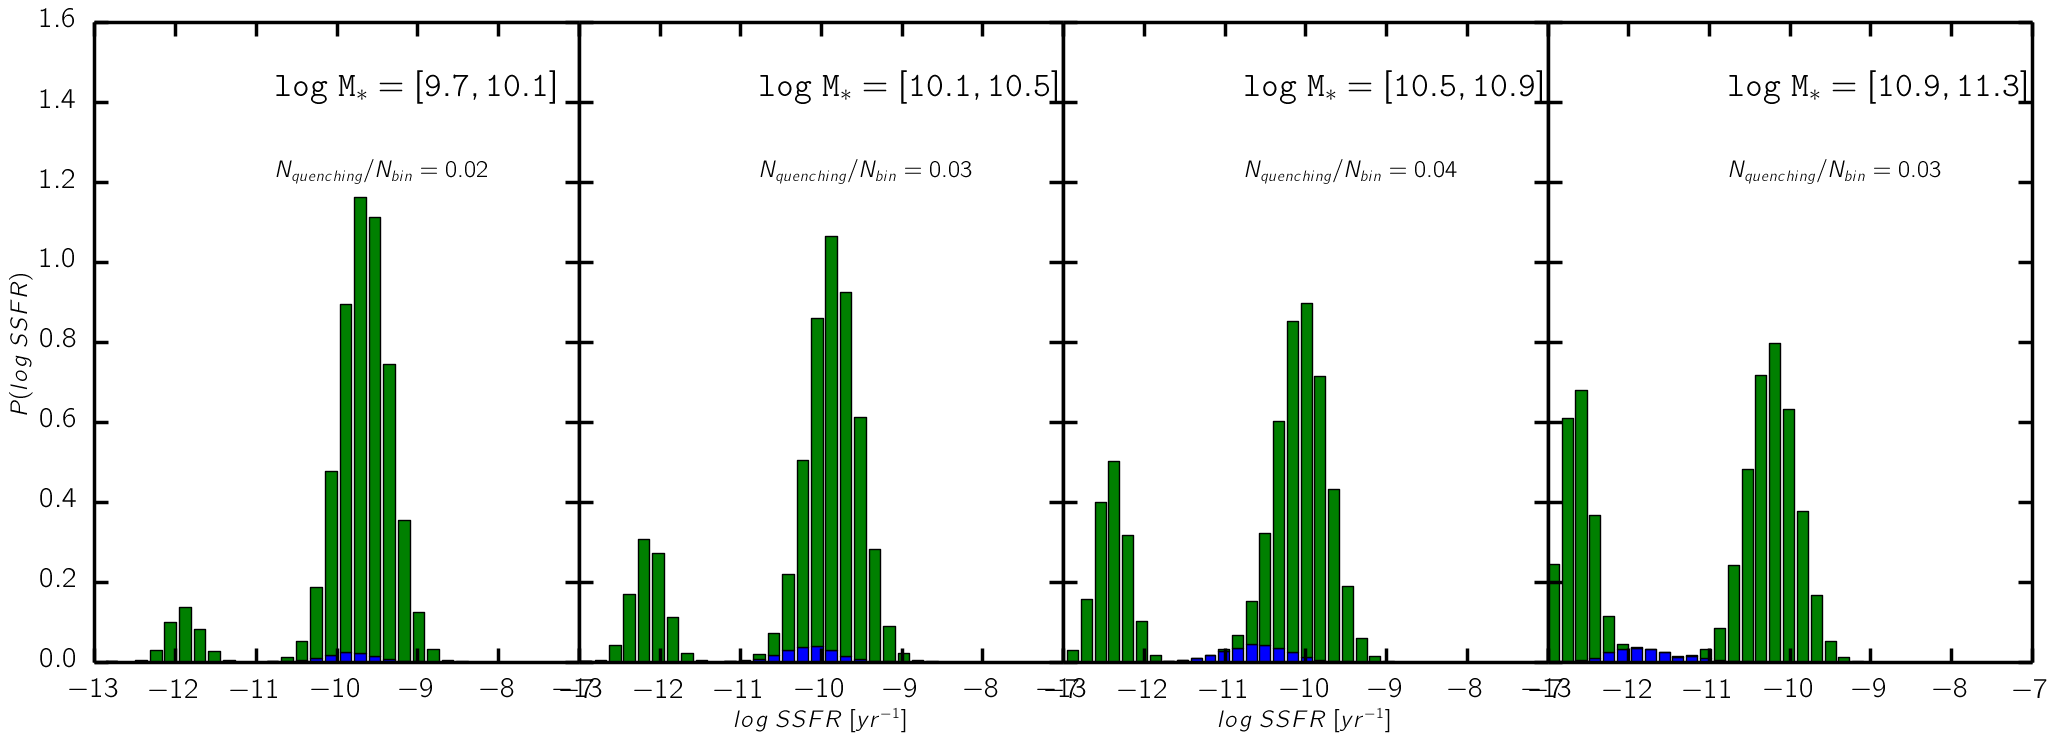
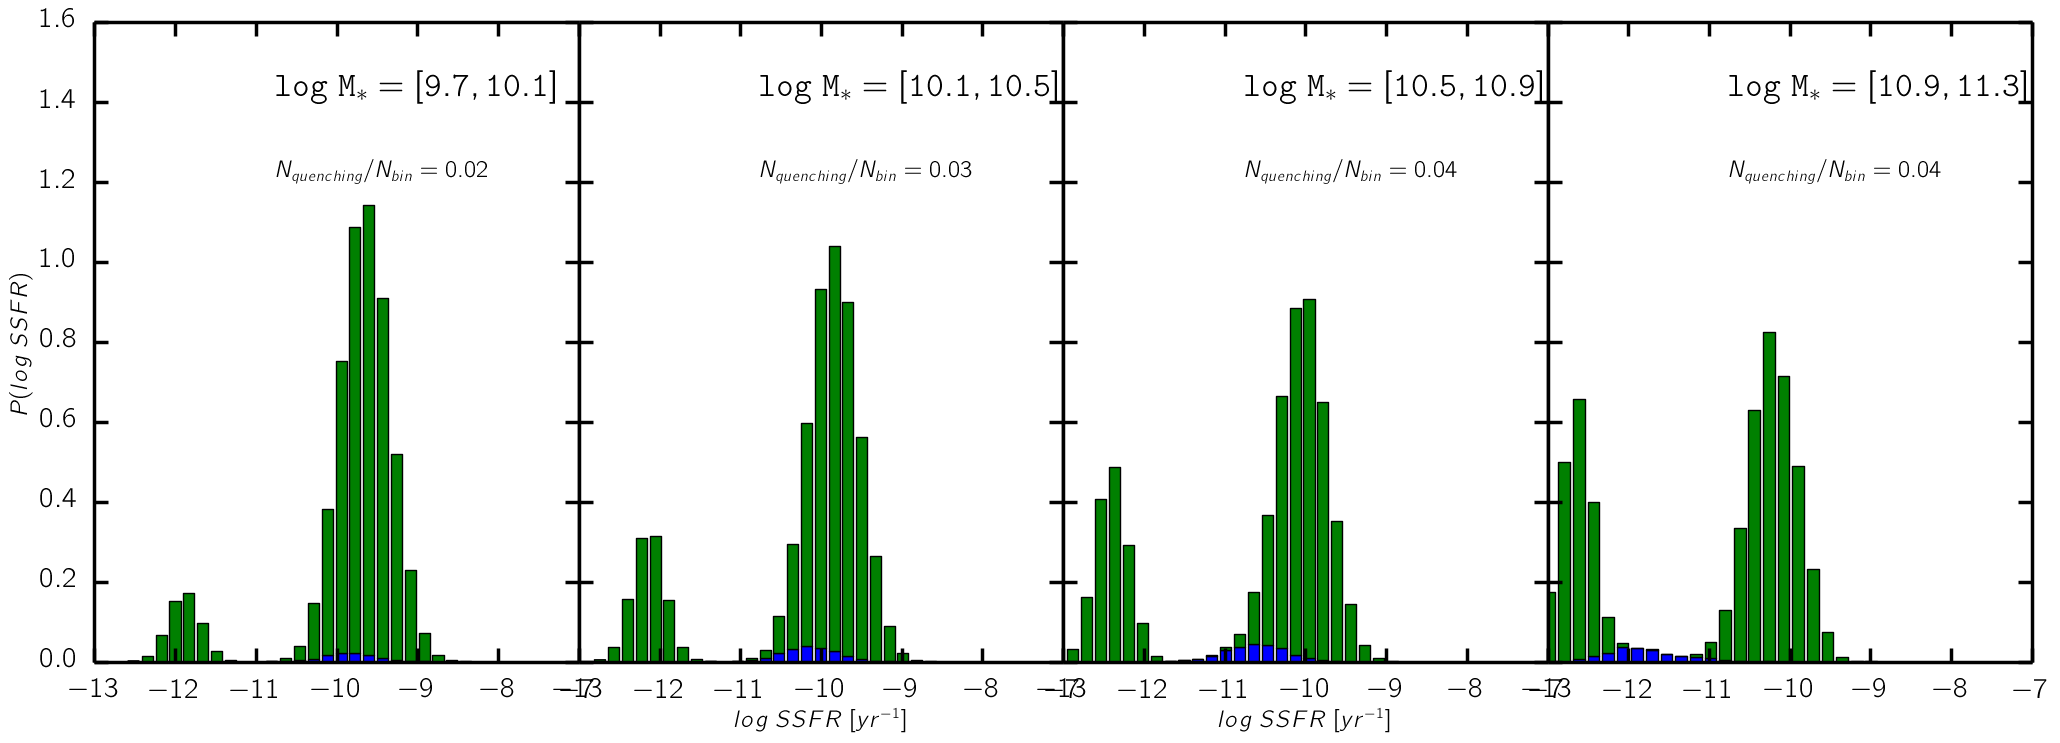
Adjustments in SSFR cuts due to SF/Q mode and fQ,obs discrepancies; fQ evolution seems problematic, so will need fixing

diff --git a/cenque_plot.py b/cenque_plot.py
@@ -84,6 +84,14 @@ def plot_cenque_ssfr_dist(cenque, fig=None, **kwargs):
         sub = fig.add_subplot(1, 4, i_mass+1)       # panel subplot 
         sub.plot(ssfr_bin_mid, ssfr_hist, 
                 color=line_color, lw=line_width, ls=line_style, label=ssfr_hist_label) 
+    
+        if cenque.zsnap: 
+            ssfr_cut = -11.3 + 0.76*(cenque.zsnap - 0.05) - 0.44 * (panel_mass[0] - 10.5)
+            sub.vlines( ssfr_cut, 0.0, 2.0, colors='black', linestyles='dashed')
+            ssfr_cut = -11.3 + 0.76*(cenque.zsnap - 0.05) - 0.44 * ( 0.5*(panel_mass[0]+panel_mass[1]) - 10.5)
+            sub.vlines( ssfr_cut, 0.0, 2.0, colors='black', linestyles='solid')
+            ssfr_cut = -11.3 + 0.76*(cenque.zsnap - 0.05) - 0.44 * (panel_mass[1] - 10.5)
+            sub.vlines( ssfr_cut, 0.0, 2.0, colors='black', linestyles='dashed')
 
         #sub.text(-12.0, 1.2, r'$N_{gal}='+str(ngal_bin)+'$')
         if new_plot == True:        # put mass labels in panels 
@@ -141,7 +149,8 @@ def plot_cenque_ssfr_dist_evolution(Mrcut=18, **kwargs):
     # overplot SDSS group catalog sSFR dist
     central_ssfr = cq_group.central_catalog(Mrcut=Mrcut) 
     ssfr_fig = plot_cenque_ssfr_dist(central_ssfr, fig=ssfr_fig, label= 'Mrcut = '+str(Mrcut)) 
-   
+    
+    # file name ----------------------------------------------------------------------------
     # sfms specifier
     if 'sfms_slope' in kwargs.keys(): 
         slope_str = str("%.2f" % kwargs['sfms_slope']) 
@@ -460,6 +469,67 @@ def plot_fq_evol():
     subs[0].set_ylabel('Quiescent Fraction') 
     subs[0].legend(loc='upper left') 
     fig_name = ''.join(['figure/fq_evol_comp_', '_'.join(fq_types), '.png'])
+    fig.savefig(fig_name, bbox_inches='tight')
+    fig.clear() 
+
+def plot_fq_geha_groupcat(Mrcut=18): 
+    '''
+    Plot comparison of Modified Tinker Catalog fq from Geha and SDSS group catalog 
+
+    '''
+    mass_bin = util.simple_mass_bin()                    # mass bin 
+       
+    prettyplot()        # make pretty 
+    pretty_colors = prettycolors() 
+    
+    # load literature data 
+    # modified tinker
+    mod_tink_file = ''.join(['dat/central_quenching/literature/modified_tinker_fq.dat']) 
+    mod_tink_mass, mod_tink_fq = np.loadtxt(mod_tink_file, unpack=True, usecols=[0,1])   
+    
+    # read group catalog 
+    central = cq_group.central_catalog(Mrcut=Mrcut) 
+    central_z = central.z    # redshifts 
+    median_z = np.median(central_z)
+   
+    fq_mass, fq = [], [] 
+
+    mass_bins = util.simple_mass_bin() 
+    for i_m in range(mass_bins.nbins): 
+
+        mass_bin_low = round(mass_bins.mass_low[i_m], 2)        # for floating point errors
+        mass_bin_mid = round(mass_bins.mass_mid[i_m], 2)
+        mass_bin_high = round(mass_bins.mass_high[i_m], 2) 
+
+        # boolean list for mass range
+        mass_bin_bool = (central.mass > mass_bin_low) & (central.mass <= mass_bin_high)
+        
+        if np.sum(mass_bin_bool) < 10: 
+            continue 
+
+        sfqs = util.sfq_classify( central.mass[mass_bin_bool], central.sfr[mass_bin_bool], median_z ) 
+        ngal = np.float(len(sfqs))
+        ngal_q = np.float(np.sum(sfqs == 'quiescent')) 
+        fq_mass.append(mass_bin_mid) 
+        fq.append(ngal_q/ngal) 
+
+    fig = plt.figure(figsize=[5, 5]) 
+    sub = fig.add_subplot(111)
+
+    sub.plot(mod_tink_mass, mod_tink_fq, 
+        color='black', lw=6, ls='--', label='Modified Tinker Group' ) 
+    
+    sub.plot(fq_mass, fq, 
+            color='black', lw=6, label=r'SDSS Group Catalog; z = '+str(median_z))
+
+    sub.set_xlim([9.0, 12.0])
+    sub.set_ylim([0.0, 1.0])
+
+    sub.set_xlabel('Mass') 
+    sub.set_ylabel('Quiescent Fraction') 
+    sub.legend(loc='upper left') 
+
+    fig_name = ''.join(['figure/fq_evol_groupcat', str(Mrcut), '_geha_comp.png'])
     fig.savefig(fig_name, bbox_inches='tight')
     fig.clear() 
 
@@ -1026,7 +1096,7 @@ def plot_groupcat_obs_fq(Mrcut=18):
     for i_z, z in enumerate(zbin): 
 
         # plot fq(Mass) 
-        fq_fit = [util.get_fq(mass_bins.mass_mid[i], z, lit='wetzel') 
+        fq_fit = [util.get_fq(mass_bins.mass_mid[i], z, lit='wetzelsmooth') 
                 for i in range(len(mass_bins.mass_mid))]
         sub.plot(mass_bins.mass_mid, fq_fit, 
                 color=pretty_colors[i_z], lw=4, ls='--', label='z = '+str(z) ) 
@@ -1069,10 +1139,15 @@ if __name__=='__main__':
     #plot_cenque_quenching_ssfr_dist(10, fqing_yint=-5.84, tau='linear')
     #plot_cenque_quenching_ssfr_dist(1, fqing_yint=-5.84, tau='constant')
     #plot_cenque_quenching_ssfr_dist(1, fqing_yint=-5.84, tau='linefit', tau_param=[-0.15, 0.17])
-    #plot_groupcat_obs_fq(Mrcut=18)
-    #plot_groupcat_obs_fq(Mrcut=19)
-    #plot_groupcat_obs_fq(Mrcut=20)
-   
+    plot_groupcat_obs_fq(Mrcut=18)
+    plot_groupcat_obs_fq(Mrcut=19)
+    plot_groupcat_obs_fq(Mrcut=20)
+    #plot_fq_geha_groupcat(Mrcut=18) 
+    #plot_fq_geha_groupcat(Mrcut=19) 
+    #plot_fq_geha_groupcat(Mrcut=20) 
+    
+    plot_cenque_ssfr_dist_evolution(nsnaps=[1], Mrcut=20, tau='linear')
+    plot_cenque_ssfr_dist_evolution(nsnaps=[1], Mrcut=19, tau='linear')
     plot_cenque_ssfr_dist_evolution(nsnaps=[1], Mrcut=18, tau='linear')
     tau_str = 'linear'
     for i in range(1,13): 

diff --git a/cenque.py b/cenque.py
@@ -626,13 +626,16 @@ def EvolveCenQue(origin_nsnap, final_nsnap, mass_bin=None, **kwargs):
 
             quenching_fraction = np.float(ngal_2quench)/np.float(ngal_totalq)
             quenching_fractionss.append(quenching_fraction)
+            
+            alpha = 1.0
+            fqing1 = 0.05 * (mass_bins.mass_mid[i_m] - 9.5) * (1.8 - child_cq.zsnap)**alpha 
+                
+            fqing2 = np.float(ngal_2quench)/np.float(ngal_totalq)
 
-            if mass_bins.mass_mid[i_m] < 10.75: 
-                alpha = 1.0
-                quenching_fraction = 0.05 * (mass_bins.mass_mid[i_m] - 9.5) * (1.8 - child_cq.zsnap)**alpha 
+            if (mass_bins.mass_mid[i_m] < 11.0) and (fqing2 > fqing1): 
+                quenching_fraction = fqing1
             else: 
-                quenching_fraction = np.float(ngal_2quench)/np.float(ngal_totalq)
-                quenching_fractionss.append(quenching_fraction)
+                quenching_fraction = fqing2
 
             if quenching_fraction < 0.0: 
                 quenching_fraction = 0.0
@@ -680,6 +683,7 @@ def EvolveCenQue(origin_nsnap, final_nsnap, mass_bin=None, **kwargs):
             child_cq.q_ssfr[quench_index] = 0.18 * np.random.randn(len(quench_index)) + q_ssfr_mean 
         
         print child_cq.zsnap
+        print mass_bins.mass_mid
         print quenching_fractions
         print quenching_fractionss
         # deal with orphans
@@ -712,6 +716,7 @@ def build_cenque_importsnap(**kwargs):
         snap = CenQue() 
         snap.AssignSFR(i_snap, **kwargs) 
         snap.writeout(nsnap=i_snap, file_type='sf assign', **kwargs)
+
         #snap.ImportSnap(nsnap=i_snap)
         #snap.writeout(nsnap=i_snap)
 
@@ -722,7 +727,7 @@ if __name__=='__main__':
     #EvolveCenQue(13, 1, fq='wetzel', tau='linear') 
                         
     #build_cenque_importsnap(fqing_yint=-5.0)
-    #build_cenque_importsnap()
+    build_cenque_importsnap()
     #EvolveCenQue(13, 1, fqing_yint=-5.84, tau='instant')  
     #tau='linefit', tau_param=[-0.5, 0.4]) 
     #EvolveCenQue(13, 1, fqing_yint=-5.84, tau='linefit', tau_param=[-0.4, 0.2])

diff --git a/cenque_utility.py b/cenque_utility.py
@@ -87,8 +87,9 @@ def get_fq(Mstar, z_in, lit='cosmosinterp'):
     
     elif lit == 'wetzelsmooth': 
 
-        qf_z0 = -6.04 + 0.63*Mstar
-        alpha = -1.5
+        #qf_z0 = -6.04 + 0.63*Mstar
+        qf_z0 = -6.04 + 0.64*Mstar
+        alpha = -1.75
 
         output = qf_z0 * ( 1.0 + z_in )**alpha 
         if output < 0.0: 
@@ -400,7 +401,8 @@ def sfq_classify(mstar, sfr, z_in, Mrcut=18, clobber=False):
     #SFR_amp = groupcat_fit_param[1] + d_yints
 
     #SFR_cut = groupcat_fit_param[0] * (mstar - fid_mass) + SFR_amp - 1.0
-    ssfr_cut = -11.55 + (z_in-0.05) - 0.49*(mstar-10.5)
+    #ssfr_cut = -11.35 + 0.76*(z_in-0.05) - 0.49*(mstar-10.5)
+    ssfr_cut = -11.3 + 0.76*(z_in-0.05) - 0.44*(mstar-10.5)
     sfr_cut = ssfr_cut + mstar 
 
     sfq = np.empty(len(mstar), dtype=(str,16))
